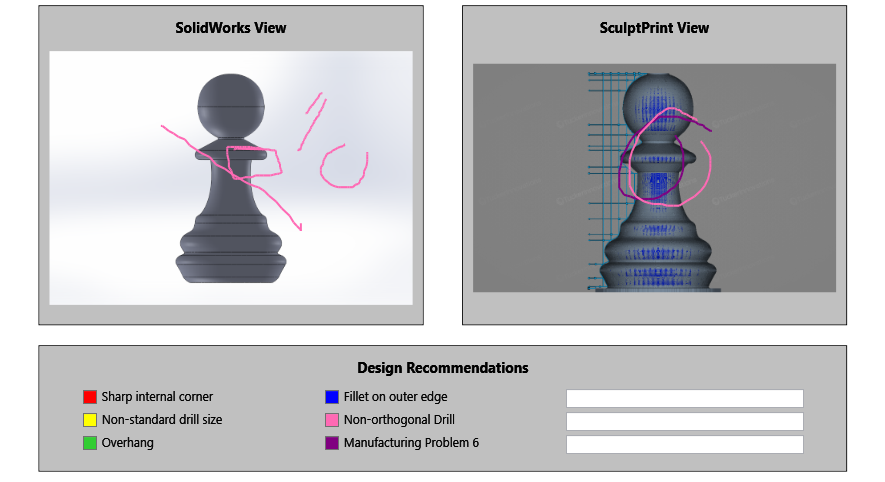
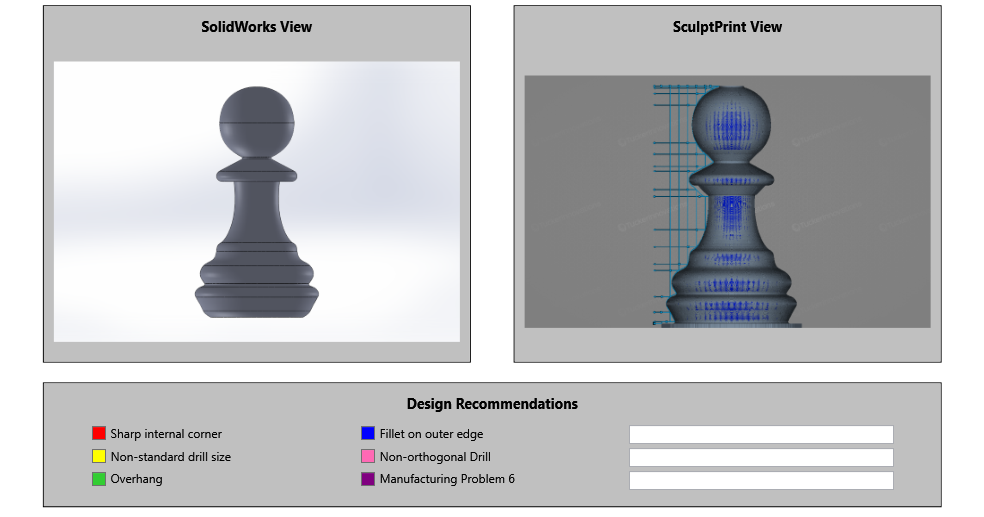
Week 8
Image size adjustments

diff --git a/Code/Prototypes/SculptPrint_Feedback/SculptPrint_Feedback/MainWindow.xaml b/Code/Prototypes/SculptPrint_Feedback/SculptPrint_Feedback/MainWindow.xaml
@@ -5,7 +5,7 @@
         xmlns:mc="http://schemas.openxmlformats.org/markup-compatibility/2006"
         xmlns:local="clr-namespace:SculptPrint_Feedback"
         mc:Ignorable="d"
-        Title="SculptPrint Feedback Tool" Height="565" Width="900" ResizeMode="NoResize" WindowStartupLocation="CenterScreen"
+        Title="SculptPrint Feedback Tool" Height="600" Width="1000" ResizeMode="NoResize" WindowStartupLocation="CenterScreen"
         Closing="Window_Closing">
     <Grid>
         <StackPanel>
@@ -25,7 +25,7 @@
                 </Grid.ColumnDefinitions>
 
                 <Grid.RowDefinitions>
-                    <RowDefinition Height="305"/>
+                    <RowDefinition Height="345"/>
                 </Grid.RowDefinitions>
                 <Border Grid.Column="1" Grid.Row="0" BorderBrush="Black" BorderThickness="1">
                     <StackPanel Background="Silver">
@@ -34,7 +34,7 @@
                         <Grid x:Name="SolidWorks_Grid">
                             <Image x:Name="View_SolidWorks" Source="IMG_No_Image.png" Margin="10 10 10 5"
                                    RenderOptions.BitmapScalingMode="Fant" MouseLeftButtonDown="View_SolidWorks_MouseLeftButtonDown" 
-                                   MouseMove="View_SolidWorks_MouseMove" MouseUp="View_SolidWorks_MouseUp" MinHeight="250"/>
+                                   MouseMove="View_SolidWorks_MouseMove" MouseUp="View_SolidWorks_MouseUp" MinHeight="300"/>
                             <Canvas x:Name="Canvas_SolidWorks" Margin="10 10 10 5"/>
                         </Grid>
                     </StackPanel>
@@ -47,7 +47,7 @@
                         <Grid x:Name="SculptPrint_Grid">
                             <Image x:Name="View_SculptPrint" Source="IMG_No_Image.png" Margin="10 10 10 5"
                                    RenderOptions.BitmapScalingMode="Fant" MouseLeftButtonDown="View_SculptPrint_MouseLeftButtonDown"
-                                   MouseMove="View_SculptPrint_MouseMove" MouseUp="View_SculptPrint_MouseUp" MinHeight="250"/>
+                                   MouseMove="View_SculptPrint_MouseMove" MouseUp="View_SculptPrint_MouseUp" MinHeight="300"/>
                             <Canvas x:Name="Canvas_SculptPrint" Margin="10 10 10 5"/>
                         </Grid>
                     </StackPanel>

diff --git a/Code/Prototypes/SongTelenkoDFM2/MessageBox_DFMResults.Designer.cs b/Code/Prototypes/SongTelenkoDFM2/MessageBox_DFMResults.Designer.cs
@@ -39,7 +39,7 @@
             this.pictureBox.Location = new System.Drawing.Point(20, 20);
             this.pictureBox.Margin = new System.Windows.Forms.Padding(0);
             this.pictureBox.Name = "pictureBox";
-            this.pictureBox.Size = new System.Drawing.Size(834, 435);
+            this.pictureBox.Size = new System.Drawing.Size(926, 433);
             this.pictureBox.SizeMode = System.Windows.Forms.PictureBoxSizeMode.Zoom;
             this.pictureBox.TabIndex = 0;
             this.pictureBox.TabStop = false;
@@ -48,7 +48,7 @@
             // 
             this.AutoScaleDimensions = new System.Drawing.SizeF(6F, 13F);
             this.AutoScaleMode = System.Windows.Forms.AutoScaleMode.Font;
-            this.ClientSize = new System.Drawing.Size(874, 475);
+            this.ClientSize = new System.Drawing.Size(966, 473);
             this.Controls.Add(this.pictureBox);
             this.Name = "MessageBox_DFMResults";
             this.Padding = new System.Windows.Forms.Padding(20);
